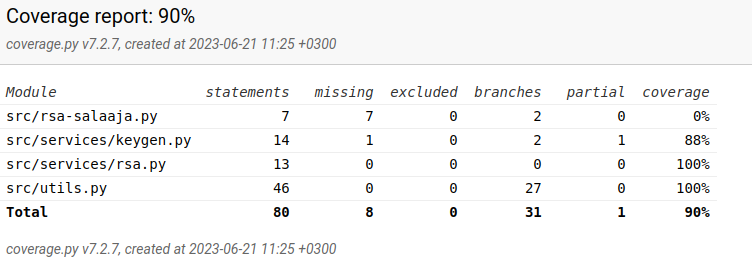
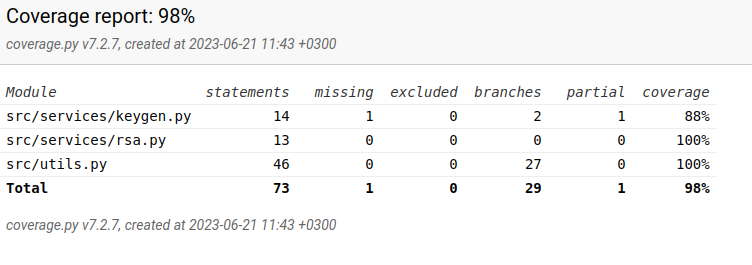
Update

diff --git a/rsaprojekti/coverage/index.html b/rsaprojekti/coverage/index.html
@@ -11,7 +11,7 @@
 <header>
     <div class="content">
         <h1>Coverage report:
-            <span class="pc_cov">90%</span>
+            <span class="pc_cov">98%</span>
         </h1>
         <aside id="help_panel_wrapper">
             <input id="help_panel_state" type="checkbox">
@@ -47,7 +47,7 @@
         </form>
         <p class="text">
             <a class="nav" href="https://coverage.readthedocs.io/en/7.2.7">coverage.py v7.2.7</a>,
-            created at 2023-06-21 11:25 +0300
+            created at 2023-06-21 11:43 +0300
         </p>
     </div>
 </header>
@@ -65,15 +65,6 @@
             </tr>
         </thead>
         <tbody>
-            <tr class="file">
-                <td class="name left"><a href="d_145eef247bfb46b6_rsa-salaaja_py.html">src/rsa-salaaja.py</a></td>
-                <td>7</td>
-                <td>7</td>
-                <td>0</td>
-                <td>2</td>
-                <td>0</td>
-                <td class="right" data-ratio="0 9">0%</td>
-            </tr>
             <tr class="file">
                 <td class="name left"><a href="d_67f6f9a13eff1831_keygen_py.html">src/services/keygen.py</a></td>
                 <td>14</td>
@@ -105,12 +96,12 @@
         <tfoot>
             <tr class="total">
                 <td class="name left">Total</td>
-                <td>80</td>
-                <td>8</td>
-                <td>0</td>
-                <td>31</td>
+                <td>73</td>
                 <td>1</td>
-                <td class="right" data-ratio="100 111">90%</td>
+                <td>0</td>
+                <td>29</td>
+                <td>1</td>
+                <td class="right" data-ratio="100 102">98%</td>
             </tr>
         </tfoot>
     </table>
@@ -122,12 +113,12 @@
     <div class="content">
         <p>
             <a class="nav" href="https://coverage.readthedocs.io/en/7.2.7">coverage.py v7.2.7</a>,
-            created at 2023-06-21 11:25 +0300
+            created at 2023-06-21 11:43 +0300
         </p>
     </div>
     <aside class="hidden">
         <a id="prevFileLink" class="nav" href="d_145eef247bfb46b6_utils_py.html"/>
-        <a id="nextFileLink" class="nav" href="d_145eef247bfb46b6_rsa-salaaja_py.html"/>
+        <a id="nextFileLink" class="nav" href="d_67f6f9a13eff1831_keygen_py.html"/>
         <button type="button" class="button_prev_file" data-shortcut="["/>
         <button type="button" class="button_next_file" data-shortcut="]"/>
         <button type="button" class="button_show_hide_help" data-shortcut="?"/>

diff --git a/rsaprojekti/coverage/d_67f6f9a13eff1831_keygen_py.html b/rsaprojekti/coverage/d_67f6f9a13eff1831_keygen_py.html
@@ -62,12 +62,12 @@
             <button type="button" class="par run show_par button_toggle_par" value="par" data-shortcut="p" title="Toggle lines partially run">1<span class="text"> partial</span></button>
         </h2>
         <p class="text">
-            <a id="prevFileLink" class="nav" href="d_145eef247bfb46b6_rsa-salaaja_py.html">&#xab; prev</a> &nbsp; &nbsp;
+            <a id="prevFileLink" class="nav" href="index.html">&#xab; prev</a> &nbsp; &nbsp;
             <a id="indexLink" class="nav" href="index.html">&Hat; index</a> &nbsp; &nbsp;
             <a id="nextFileLink" class="nav" href="d_67f6f9a13eff1831_rsa_py.html">&#xbb; next</a>
             &nbsp; &nbsp; &nbsp;
             <a class="nav" href="https://coverage.readthedocs.io/en/7.2.7">coverage.py v7.2.7</a>,
-            created at 2023-06-21 11:25 +0300
+            created at 2023-06-21 11:43 +0300
         </p>
         <aside class="hidden">
             <button type="button" class="button_next_chunk" data-shortcut="j"/>
@@ -124,12 +124,12 @@
 <footer>
     <div class="content">
         <p>
-            <a id="prevFileLink" class="nav" href="d_145eef247bfb46b6_rsa-salaaja_py.html">&#xab; prev</a> &nbsp; &nbsp;
+            <a id="prevFileLink" class="nav" href="index.html">&#xab; prev</a> &nbsp; &nbsp;
             <a id="indexLink" class="nav" href="index.html">&Hat; index</a> &nbsp; &nbsp;
             <a id="nextFileLink" class="nav" href="d_67f6f9a13eff1831_rsa_py.html">&#xbb; next</a>
             &nbsp; &nbsp; &nbsp;
             <a class="nav" href="https://coverage.readthedocs.io/en/7.2.7">coverage.py v7.2.7</a>,
-            created at 2023-06-21 11:25 +0300
+            created at 2023-06-21 11:43 +0300
         </p>
     </div>
 </footer>

diff --git a/rsaprojekti/coverage/d_67f6f9a13eff1831_rsa_py.html b/rsaprojekti/coverage/d_67f6f9a13eff1831_rsa_py.html
@@ -67,7 +67,7 @@
             <a id="nextFileLink" class="nav" href="d_145eef247bfb46b6_utils_py.html">&#xbb; next</a>
             &nbsp; &nbsp; &nbsp;
             <a class="nav" href="https://coverage.readthedocs.io/en/7.2.7">coverage.py v7.2.7</a>,
-            created at 2023-06-21 11:25 +0300
+            created at 2023-06-21 11:43 +0300
         </p>
         <aside class="hidden">
             <button type="button" class="button_next_chunk" data-shortcut="j"/>
@@ -128,7 +128,7 @@
             <a id="nextFileLink" class="nav" href="d_145eef247bfb46b6_utils_py.html">&#xbb; next</a>
             &nbsp; &nbsp; &nbsp;
             <a class="nav" href="https://coverage.readthedocs.io/en/7.2.7">coverage.py v7.2.7</a>,
-            created at 2023-06-21 11:25 +0300
+            created at 2023-06-21 11:43 +0300
         </p>
     </div>
 </footer>

diff --git a/rsaprojekti/coverage/d_145eef247bfb46b6_utils_py.html b/rsaprojekti/coverage/d_145eef247bfb46b6_utils_py.html
@@ -67,7 +67,7 @@
             <a id="nextFileLink" class="nav" href="index.html">&#xbb; next</a>
             &nbsp; &nbsp; &nbsp;
             <a class="nav" href="https://coverage.readthedocs.io/en/7.2.7">coverage.py v7.2.7</a>,
-            created at 2023-06-21 11:25 +0300
+            created at 2023-06-21 11:43 +0300
         </p>
         <aside class="hidden">
             <button type="button" class="button_next_chunk" data-shortcut="j"/>
@@ -200,7 +200,7 @@
             <a id="nextFileLink" class="nav" href="index.html">&#xbb; next</a>
             &nbsp; &nbsp; &nbsp;
             <a class="nav" href="https://coverage.readthedocs.io/en/7.2.7">coverage.py v7.2.7</a>,
-            created at 2023-06-21 11:25 +0300
+            created at 2023-06-21 11:43 +0300
         </p>
     </div>
 </footer>
